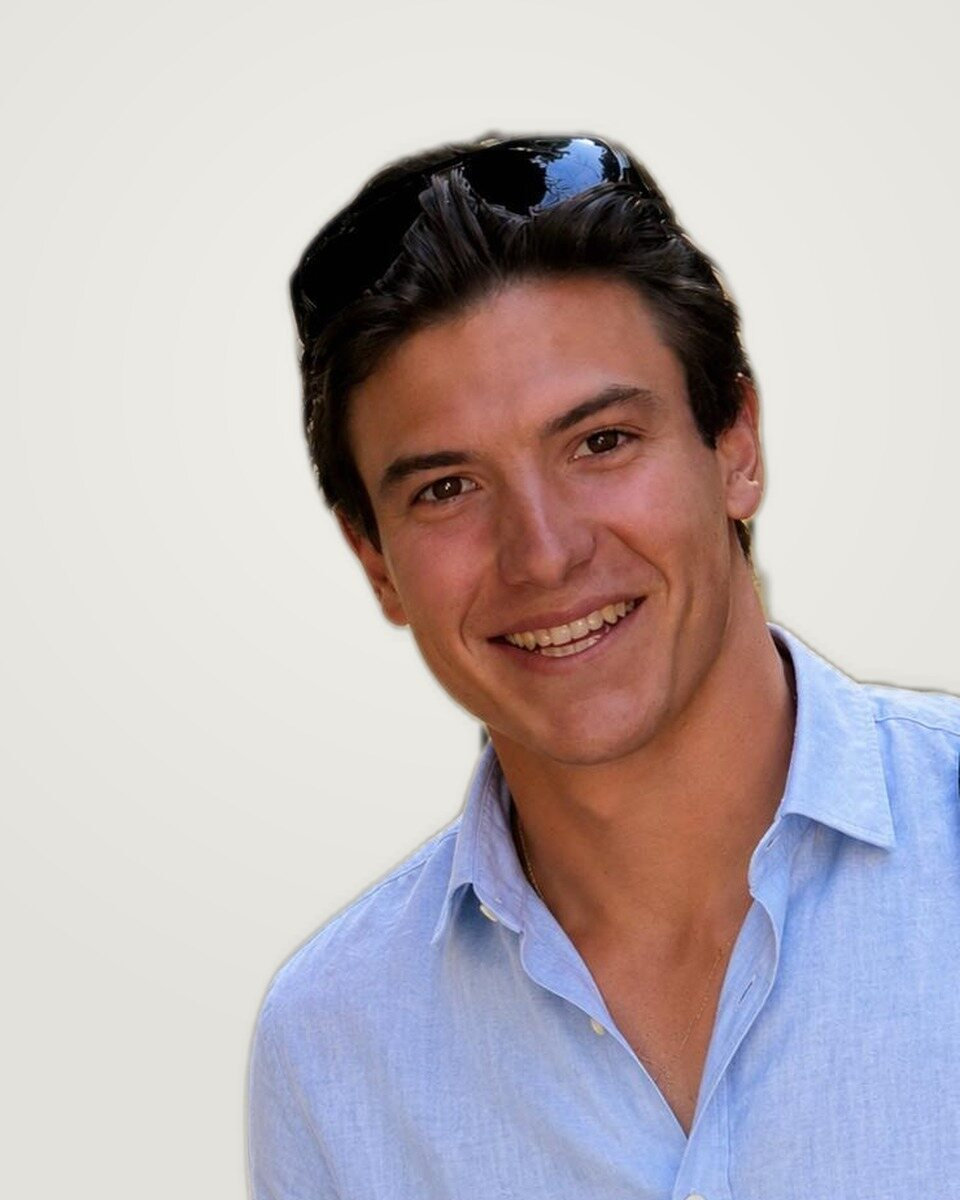
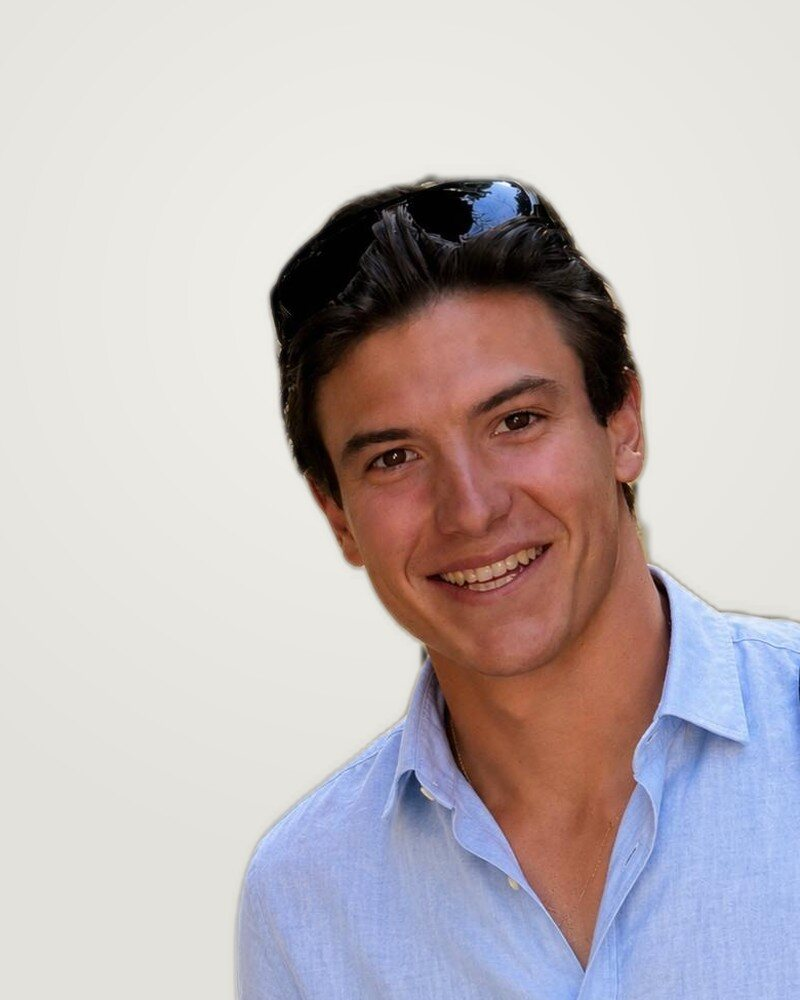
Pages plus courtes : onglets sur les offres, volets sur les engagements, accueil compact avec portrait, bande de démos, bandeau d'appel court, crédits repliés ; portrait plus petit et plus haut ; plus aucune mention de la joaillerie ; comparaison désactivable
Claude-Session: https://claude.ai/code/session_01KmWuHobznHmM7V82BQaya5

Changed region(s): [[0.25, 0.093, 1.0, 1.0], [0.3438, 0.93, 0.4062, 1.0], [0.6875, 0.775, 0.7188, 0.806]]

diff --git a/public/assets/rendu.js b/public/assets/rendu.js
@@ -70,7 +70,7 @@ export function donnees(C) {
   const CP = C.comparaison && typeof C.comparaison === 'object' && !Array.isArray(C.comparaison) ? C.comparaison : null;
   const lignesCp = CP && Array.isArray(CP.lignes) ? CP.lignes.filter((l) => l && l.critere && l.a && l.b) : [];
   const colsCp = CP && Array.isArray(CP.colonnes) && CP.colonnes.length === 2 && CP.colonnes.every((c) => typeof c === 'string' && c.trim()) ? CP.colonnes : null;
-  const comparaison = CP && lignesCp.length && colsCp ? { sur: CP.sur || '', titre: CP.titre || '', intro: CP.intro || '', note: CP.note || '', colonnes: colsCp, lignes: lignesCp } : null;
+  const comparaison = CP && lignesCp.length && colsCp ? { actif: CP.actif === true, sur: CP.sur || '', titre: CP.titre || '', intro: CP.intro || '', note: CP.note || '', colonnes: colsCp, lignes: lignesCp } : null;
   return { secteurs, secteursUtiles, realisations, metiers, etapes, equipe, references, chiffres, lots, secteur, abonnements, engagements, pages, comparaison };
 }
 
@@ -136,8 +136,18 @@ const prixHtml = (p) => { const [v, ...r] = String(p == null ? '' : p).split('|'
 const telHref = (t) => 'tel:' + String(t || '').replace(/[^\d+]/g, '').replace(/^0/, '+33');
 
 /* Barre d'appel au contact, réutilisée en bas de plusieurs pages */
-function appel(C) {
+function appel(C, court) {
   const A = C.accueil || {}, G = C.agence || {};
+  if (court && (C.theme || {}).gabarit === 'edition') return `
+  <section class="appel appel-court">
+    <div class="wrap appel-in">
+      <h2>${esc(A.appel_titre || libelle(C, 'appel_titre'))}</h2>
+      <div class="actions">
+        <a class="btn btn-or" href="/contact">${esc(libelle(C, 'bouton_appel'))}</a>
+        ${G.telephone ? `<a class="btn btn-ligne-clair" href="${telHref(G.telephone)}">${ico.tel}<span>${esc(G.telephone)}</span></a>` : ''}
+      </div>
+    </div>
+  </section>`;
   return `
   <section class="appel">
     ${img(A.photo_appel, 2000, 'appel-img', false, '')}
@@ -236,7 +246,7 @@ ${page.corps}
       <a href="/confidentialite">Confidentialité</a>
       ${o.lienAdmin ? `<a href="${o.lienAdmin}">Page de modification</a>` : ''}
       <span>© ${new Date().getFullYear()} ${esc(nom)}</span>
-      ${C.credits_photos ? `<span class="credits">${esc(C.credits_photos)}</span>` : ''}
+      ${C.credits_photos ? ((C.theme || {}).gabarit === 'edition' ? `<details class="credits"><summary>Crédits des photos</summary><p>${esc(C.credits_photos)}</p></details>` : `<span class="credits">${esc(C.credits_photos)}</span>`) : ''}
     </div>
   </div>
 </footer>
@@ -281,7 +291,7 @@ const abonnementsHtml = (D) => {
 };
 const comparaisonHtml = (C, D) => {
   const K = D.comparaison;
-  if (!K) return '';
+  if (!K || K.actif !== true) return '';
   const [c1, c2] = K.colonnes;
   return `
   <section class="sec" id="comparaison" aria-labelledby="t-cmp">
@@ -421,18 +431,32 @@ const offreVolet = (C, m, i, ouvert) => `
         </div>
       </details>`;
 
-function pageExpertises(C, D) {
-  const edition = (C.theme || {}).gabarit === 'edition';
-  return {
-    classe: 'p-expertises', titre: libelle(C, 'nav_expertises'), rubrique: '/expertises', image: (D.metiers[0] || {}).photo,
-    description: libelle(C, 'page_exp_description') || `Space planning, maîtrise d'œuvre et contractant général : les métiers de ${(C.agence || {}).nom || 'l’agence'}.`,
-    corps: `
-  <section class="tete-page wrap">
-    <p class="sur">${esc(libelle(C, 'exp_sur'))}</p>
-    <h1>${esc(libelle(C, 'page_exp_titre'))}</h1>
-    <p class="chapo">${esc((C.agence || {}).activite || '')}${(C.agence || {}).zone ? ', ' + esc(C.agence.zone) : ''}.</p>
-  </section>
-  ${edition ? `<section class="sec sec-serre offres" aria-label="${esc(libelle(C, 'page_exp_titre'))}"><div class="wrap">${D.metiers.map((m, i) => offreVolet(C, m, i, false)).join('')}</div></section>` : D.metiers.map((m, i) => `
+/* Page des offres, gabarit « édition » : quatre onglets (les sites, les abonnements, comment ça marche, ce qui est inclus) ; sans JavaScript, tout reste affiché */
+function onglets(C, D) {
+  const etapes = D.etapes.length ? `
+      <section class="sec sec-serre" aria-labelledby="t-met"><div class="wrap">
+        <div class="sec-tete">${titreSection(libelle(C, 'methode_sur'), libelle(C, 'methode_titre_page'), 't-met')}</div>
+        ${etapesHtml(D)}
+      </div></section>` : '';
+  const lots = D.lots.length ? `
+      <section class="sec sec-serre" aria-labelledby="t-lots"><div class="wrap">
+        <div class="sec-tete">${titreSection(libelle(C, 'lots_sur'), libelle(C, 'lots_titre'), 't-lots')}</div>
+        <ul class="lots">${D.lots.map((l) => `<li>${esc(l)}</li>`).join('')}</ul>
+      </div></section>` : '';
+  const cmp = comparaisonHtml(C, D);
+  const abo = abonnementsHtml(D);
+  const pans = [
+    ['sites', 'Les sites', `<section class="sec sec-serre offres" aria-label="${esc(libelle(C, 'page_exp_titre'))}"><div class="wrap">${D.metiers.map((m, i) => offreVolet(C, m, i, false)).join('')}</div></section>${pagesListeHtml(C, D)}`],
+    ...(abo ? [['abonnements', 'Abonnements', abo]] : []),
+    ...(etapes ? [['etapes', 'Comment ça marche', etapes]] : []),
+    ...(lots ? [['inclus', 'Inclus dans chaque site', lots]] : []),
+    ...(cmp ? [['comparaison', 'Comparer', cmp]] : []),
+  ];
+  return `<div class="onglets-barre" role="tablist" aria-label="Rubriques de la page" hidden><div class="wrap">${pans.map(([id, nom], i) => `<button type="button" role="tab" class="onglet" id="o-${id}" aria-controls="p-${id}" aria-selected="${i === 0}" tabindex="${i === 0 ? 0 : -1}">${esc(nom)}</button>`).join('')}</div></div>
+  ${pans.map(([id, , html]) => `<div class="onglet-panneau" role="tabpanel" id="p-${id}" aria-labelledby="o-${id}">${html}</div>`).join('\n  ')}`;
+}
+const classique = (C, D) => `
+  ${D.metiers.map((m, i) => `
   <section class="sec metier${i % 2 ? ' inverse' : ''}" id="${esc(m.id)}">
     <div class="wrap metier-grille">
       ${src(m.photo, 1400) ? `<figure class="metier-fig">${img(m.photo, 1400, 'metier-img', i === 0, '')}</figure>` : ''}
@@ -463,8 +487,21 @@ function pageExpertises(C, D) {
       <div class="sec-tete">${titreSection(libelle(C, 'lots_sur'), libelle(C, 'lots_titre'), 't-lots')}</div>
       <ul class="lots">${D.lots.map((l) => `<li>${esc(l)}</li>`).join('')}</ul>
     </div>
-  </section>` : ''}
-  ${appel(C)}`,
+  </section>` : ''}`;
+
+function pageExpertises(C, D) {
+  const edition = (C.theme || {}).gabarit === 'edition';
+  return {
+    classe: 'p-expertises', titre: libelle(C, 'nav_expertises'), rubrique: '/expertises', image: (D.metiers[0] || {}).photo,
+    description: libelle(C, 'page_exp_description') || `Space planning, maîtrise d'œuvre et contractant général : les métiers de ${(C.agence || {}).nom || 'l’agence'}.`,
+    corps: `
+  <section class="tete-page wrap">
+    <p class="sur">${esc(libelle(C, 'exp_sur'))}</p>
+    <h1>${esc(libelle(C, 'page_exp_titre'))}</h1>
+    <p class="chapo">${esc((C.agence || {}).activite || '')}${(C.agence || {}).zone ? ', ' + esc(C.agence.zone) : ''}.</p>
+  </section>
+  ${edition ? onglets(C, D) : classique(C, D)}
+  ${appel(C, true)}`,
   };
 }
 
@@ -498,7 +535,7 @@ function pageMetier(C, D, id) {
       <div class="faq">${x.questions.map((q) => `<details><summary>${esc(q.q)}</summary><p>${esc(q.r)}</p></details>`).join('')}</div>
     </div>
   </section>` : ''}
-  ${appel(C)}`,
+  ${appel(C, true)}`,
   };
 }
 
@@ -518,7 +555,7 @@ function pageRealisations(C, D, secteurId) {
       ${liste.length ? `<ul class="cartes">${liste.map((x) => carte(D, x, false)).join('\n        ')}</ul>` : '<p class="vide">Aucune réalisation en ligne pour le moment.</p>'}
     </div>
   </section>
-  ${appel(C)}`,
+  ${appel(C, true)}`,
   };
 }
 
@@ -559,7 +596,7 @@ function pageRealisation(C, D, id) {
     <a href="/realisations/${esc(prec.id)}">${ico.gauche}<span><small>Précédente</small>${esc(prec.nom)}</span></a>
     <a href="/realisations/${esc(suiv.id)}"><span><small>Suivante</small>${esc(suiv.nom)}</span>${ico.fleche}</a>
   </nav>` : ''}
-  ${appel(C)}`,
+  ${appel(C, true)}`,
   };
 }
 
@@ -576,7 +613,7 @@ function pageAgence(C, D) {
   <section class="sec sec-serre">
     <div class="wrap intro-grille">
       <div class="prose prose-grande">${texteRiche(P.texte)}</div>
-      ${src(P.photo, 1200) ? `<figure class="intro-fig">${img(P.photo, 1200, 'intro-img', true, '')}</figure>` : ''}
+      ${src(P.photo, 1200) ? `<figure class="intro-fig">${img(P.photo, 1200, 'intro-img', true, '')}${((C.equipe || [])[0] || {}).nom ? `<figcaption><b>${esc(C.equipe[0].nom)}</b>${C.equipe[0].role ? `<span>${esc(C.equipe[0].role)}</span>` : ''}</figcaption>` : ''}</figure>` : ''}
     </div>
   </section>
   ${src(P.photo_2, 1600) ? `<section class="sec sec-serre agence-bande"><div class="wrap"><figure>${img(P.photo_2, 1600, 'bande-img', false, '')}</figure></div></section>` : ''}
@@ -601,7 +638,7 @@ function pageAgence(C, D) {
       ${referencesHtml(D)}
     </div>
   </section>` : ''}
-  ${appel(C)}`,
+  ${appel(C, true)}`,
   };
 }
 
@@ -662,15 +699,15 @@ function pageEngagements(C, D) {
     <h1>${esc(libelle(C, 'page_eng_titre'))}</h1>
     ${chapo ? `<p class="chapo">${esc(chapo)}</p>` : ''}
   </section>
-  <section class="sec sec-serre">
+  ${(C.theme || {}).gabarit === 'edition' ? `<section class="sec sec-serre"><div class="wrap eng-vols">${D.engagements.map((b) => `<details class="offre eng-vol" id="${esc(b.id)}"><summary><span class="offre-tete"><h2>${esc(b.titre)}</h2></span></summary><div class="offre-corps eng-corps"><div class="metier-txt">${b.texte ? `<div class="prose">${texteRiche(b.texte)}</div>` : ''}${listeCoches(b.points)}</div></div></details>`).join('')}</div></section>` : `<section class="sec sec-serre">
     <div class="wrap eng-grille">
       <nav class="eng-index" aria-label="${esc(libelle(C, 'eng_index'))}"><p class="sur">${esc(libelle(C, 'eng_index'))}</p><ol>${D.engagements.map((b) => `<li><a href="#${esc(b.id)}">${esc(b.titre)}</a></li>`).join('')}</ol></nav>
       <div class="eng-blocs">
         ${D.engagements.map((b, i) => `<section class="eng-bloc" id="${esc(b.id)}" aria-labelledby="t-${esc(b.id)}"><span class="eng-num" aria-hidden="true">${num(i)}</span><h2 id="t-${esc(b.id)}">${esc(b.titre)}</h2>${b.texte ? `<div class="prose">${texteRiche(b.texte)}</div>` : ''}${listeCoches(b.points)}</section>`).join('\n        ')}
       </div>
     </div>
-  </section>
-  ${appel(C)}`,
+  </section>`}
+  ${appel(C, true)}`,
   };
 }
 

diff --git a/public/assets/site.css b/public/assets/site.css
@@ -957,3 +957,102 @@ select.saisie{background-image:linear-gradient(45deg,transparent 50%,var(--gris)
 .g-edition .agence-bande img{width:100%;aspect-ratio:21/9;object-fit:cover;object-position:50% 60%;border:var(--fil)}
 .g-edition .agence-bande{padding-top:0}
 .g-edition .agence-bande figure{margin:0}
+
+/* ====== Révision 4 : pages plus courtes (onglets, volets, bandes), portrait petit et haut ====== */
+/* Onglets de la page des offres */
+.g-edition .onglets-barre{background:var(--fond);border-bottom:var(--fil);position:sticky;top:72px;z-index:20}
+.g-edition .onglets-barre .wrap{display:flex;gap:clamp(18px,3vw,36px);overflow-x:auto;scrollbar-width:none}
+.g-edition .onglets-barre .wrap::-webkit-scrollbar{display:none}
+.g-edition .onglet{flex:none;background:none;border:0;border-bottom:3px solid transparent;margin-bottom:-1px;padding:16px 0 13px;font:600 1rem/1.2 var(--texte);color:var(--gris);cursor:pointer;white-space:nowrap}
+.g-edition .onglet:hover{color:var(--encre)}
+.g-edition .onglet[aria-selected="true"]{color:var(--encre);border-bottom-color:var(--bleu)}
+.g-edition .onglet-panneau[hidden]{display:none}
+.g-edition .onglet-panneau > .sec:first-child{padding-top:clamp(28px,4vw,48px)}
+/* Engagements : volets fermés */
+.g-edition .eng-vols{max-width:920px}
+.g-edition .eng-vol summary{grid-template-columns:minmax(0,1fr) 1.75rem;grid-template-areas:"tete plus";padding:24px 0}
+.g-edition .eng-vol .offre-tete h2{font-size:clamp(1.375rem,2.4vw,1.875rem)}
+.g-edition .eng-corps{grid-template-columns:minmax(0,1fr);padding:0 2rem 32px 0}
+@media (min-width:900px){.g-edition .eng-vol summary{grid-template-columns:minmax(0,1fr) 2rem;grid-template-areas:"tete plus";padding:28px 0}.g-edition .eng-corps{grid-template-columns:minmax(0,1fr);padding:0 2rem 36px 0}}
+/* Bandeau d'appel court des pages intérieures */
+.g-edition .appel-court .appel-in{display:flex;flex-wrap:wrap;align-items:center;justify-content:space-between;gap:16px 32px;padding-top:clamp(24px,3.5vw,36px);padding-bottom:clamp(24px,3.5vw,36px)}
+.g-edition .appel-court h2{font-size:clamp(1.375rem,2.6vw,1.875rem);max-width:none;line-height:1.1;margin:0}
+.g-edition .appel-court .actions{margin:0}
+/* Pied de page : crédits repliés */
+.g-edition .credits{flex-basis:100%}
+.g-edition .credits summary{cursor:pointer;font-size:.8125rem;color:rgba(255,255,255,.72);width:max-content}
+.g-edition .credits p{margin-top:8px;font-size:.8125rem;line-height:1.6;color:rgba(255,255,255,.72)}
+/* Accueil : premier écran compact avec le portrait */
+.g-edition .hero{padding-top:clamp(28px,4.5vw,56px);padding-bottom:clamp(24px,3vw,40px)}
+.g-edition .hero h1{font-size:clamp(2.5rem,5.6vw,4.75rem)}
+.g-edition .hero-media{width:min(100%,300px);justify-self:start;aspect-ratio:4/5;max-height:none;grid-column:1;object-position:50% 30%}
+@media (max-width:899px){
+  .g-edition .hero{grid-template-columns:minmax(0,1fr) 112px;gap:18px 18px;align-items:end}
+  .g-edition .hero h1,.g-edition .hero-chapo,.g-edition .hero .actions{grid-column:1 / -1}
+  .g-edition .hero-gar{grid-column:1;grid-template-columns:1fr;margin:0;border-top:0}
+  .g-edition .hero-gar li{padding:10px 0;border-bottom:var(--fil);border-top:0}
+  .g-edition .hero-gar li:first-child{border-top:var(--filfort)}
+  .g-edition .hero-gar b{font-size:clamp(1.75rem,8vw,2.25rem)}
+  .g-edition .hero-media{grid-column:2;width:112px;justify-self:end;align-self:start;order:7}
+  .g-edition .hero-gar{order:6}
+}
+@media (min-width:900px){
+  .g-edition .hero{grid-template-columns:minmax(0,7fr) minmax(0,5fr);grid-template-rows:auto auto auto auto}
+  .g-edition .hero-media{grid-column:2;grid-row:1 / span 4;justify-self:end;width:min(100%,300px);align-self:center}
+  .g-edition .hero-gar{grid-column:1;grid-row:4;grid-template-columns:repeat(2,minmax(0,1fr));margin-top:6px;border-top:var(--filfort)}
+  .g-edition .hero-gar li{padding:18px 24px 18px 0;border-bottom:0}
+  .g-edition .hero-gar li + li{padding-left:24px;border-left:var(--fil)}
+  .g-edition .hero-gar b{font-size:clamp(2.25rem,3.6vw,3.25rem)}
+}
+.g-edition .hero + .sec{padding-top:clamp(32px,4vw,56px)}
+/* Accueil : « Je m'en occupe » plus court, photo plus petite */
+.g-edition .intro-img{height:clamp(190px,24vw,320px)}
+.g-edition .intro-txt h2{font-size:clamp(1.75rem,3.2vw,2.5rem)}
+.g-edition .sec{padding:clamp(40px,5.5vw,76px) 0}
+.g-edition .sec-tete{margin-bottom:clamp(20px,3vw,36px)}
+/* Accueil : les quatre offres en lignes serrées, sans texte sur téléphone */
+@media (max-width:759px){
+  .g-edition .metiers a{padding:16px 0}
+  .g-edition .metiers p:not(.metier-prix){display:none}
+  .g-edition .metiers h3{font-size:1.5rem}
+}
+/* Accueil : démonstrations en une ligne de quatre (bande qui défile sur téléphone) */
+.g-edition .essai-grille{grid-template-columns:minmax(0,1fr);gap:24px}
+.g-edition .essai-txt .prose{max-width:62ch}
+.g-edition .essai-liens{display:flex;gap:16px;overflow-x:auto;scroll-snap-type:x mandatory;padding-bottom:8px;margin-right:calc(var(--gut) * -1);padding-right:var(--gut);scrollbar-width:thin}
+.g-edition .essai-liens li{flex:0 0 min(72%,280px);scroll-snap-align:start}
+.g-edition .essai-liens small{display:none}
+.g-edition .essai-vue{aspect-ratio:1/1}
+@media (min-width:760px){.g-edition .essai-liens{display:grid;grid-template-columns:repeat(4,minmax(0,1fr));gap:24px;overflow:visible;margin-right:0;padding-right:0}.g-edition .essai-liens li{flex:none}}
+@media (min-width:1000px){.g-edition .essai-grille{grid-template-columns:minmax(0,1fr)}.g-edition .essai-liens{grid-template-columns:repeat(4,minmax(0,1fr));gap:28px}}
+/* Trois étapes : une ligne chacune */
+.g-edition .etapes{gap:clamp(20px,2.4vw,36px)}
+.g-edition .etapes ul li{border-bottom:0;padding:6px 0;font-size:1rem}
+.g-edition .etape-num{display:none}
+/* Appel de l'accueil : moins haut */
+.g-edition .appel-in{padding-top:clamp(40px,6vw,76px);padding-bottom:clamp(40px,6vw,76px)}
+/* À propos : portrait petit, tout en haut, à côté du texte */
+.g-edition.p-agence .tete-page{padding-bottom:0}
+.g-edition.p-agence .tete-page h1{font-size:clamp(2.25rem,4.4vw,3.5rem);margin-bottom:8px}
+@media (min-width:760px){
+  .g-edition.p-agence .intro-grille{grid-template-columns:minmax(0,1fr) 250px;gap:clamp(32px,5vw,72px);align-items:start}
+}
+.g-edition.p-agence .intro-fig{max-width:250px;justify-self:start;order:-1}
+@media (min-width:760px){.g-edition.p-agence .intro-fig{justify-self:end;order:0}}
+.g-edition.p-agence .intro-img{height:auto;aspect-ratio:4/5;object-position:50% 30%}
+.g-edition .intro-fig figcaption{margin-top:12px;display:grid;gap:2px}
+.g-edition .intro-fig figcaption b{font:500 1.1875rem/1.2 var(--titres)}
+.g-edition .intro-fig figcaption span{color:var(--gris);font-size:.9375rem}
+.g-edition.p-agence .prose-grande p:first-child{font-size:clamp(1.25rem,2vw,1.625rem)}
+.g-edition .agence-bande img{aspect-ratio:16/5;object-position:50% 62%}
+@media (max-width:759px){.g-edition .agence-bande img{aspect-ratio:16/8}}
+/* Mobile : portrait de « À propos » plus petit, pied de page en deux colonnes */
+@media (max-width:759px){
+  .g-edition.p-agence .intro-fig{max-width:150px}
+  .g-edition .pied{padding:36px 0 24px}
+  .g-edition .pied-cols{display:grid;grid-template-columns:1fr 1fr;gap:22px 16px}
+  .g-edition .pied-haut{margin-bottom:18px}
+  .g-edition .pied-marque{font-size:1.5rem}
+}
+@media (min-width:900px){.g-edition .hero{padding-bottom:clamp(8px,1.5vw,20px)}.g-edition .hero + .sec{padding-top:clamp(20px,2.5vw,36px)}}
+@media (min-width:1000px){.g-edition.p-realisations .cartes{grid-template-columns:repeat(4,minmax(0,1fr));gap:28px}}

diff --git a/public/assets/site.js b/public/assets/site.js
@@ -20,6 +20,36 @@
     });
   })();
 
+  /* Onglets (page des offres) : sans JavaScript tout reste affiché ; avec, un seul panneau à la fois. L'adresse « #identifiant » ouvre le bon onglet. */
+  var ONGLETS = (function () {
+    var barre = $('.onglets-barre'); if (!barre) return null;
+    var tabs = $$('[role="tab"]', barre), pans = tabs.map(function (t) { return document.getElementById(t.getAttribute('aria-controls')); });
+    barre.hidden = false;
+    var activer = function (i, focus) {
+      tabs.forEach(function (t, j) { var on = j === i; t.setAttribute('aria-selected', String(on)); t.tabIndex = on ? 0 : -1; if (pans[j]) pans[j].hidden = !on; });
+      if (focus) tabs[i].focus();
+    };
+    tabs.forEach(function (t, i) {
+      t.addEventListener('click', function () { activer(i); try { history.replaceState(null, '', '#' + pans[i].id.replace(/^p-/, '')); } catch (e) { /* rien */ } });
+      t.addEventListener('keydown', function (e) {
+        var k = e.key, n = tabs.length;
+        if (k === 'ArrowRight') { e.preventDefault(); activer((i + 1) % n, true); } else if (k === 'ArrowLeft') { e.preventDefault(); activer((i + n - 1) % n, true); }
+        else if (k === 'Home') { e.preventDefault(); activer(0, true); } else if (k === 'End') { e.preventDefault(); activer(n - 1, true); }
+      });
+    });
+    var surHash = function () {
+      var h = decodeURIComponent((location.hash || '').slice(1)); if (!h) return;
+      var cible = document.getElementById(h); if (!cible) return;
+      var pan = cible.closest('[role="tabpanel"]');
+      var i = pan ? pans.indexOf(pan) : pans.map(function (p) { return p && p.id.replace(/^p-/, ''); }).indexOf(h);
+      if (i > -1) activer(i);
+      if (cible.tagName === 'DETAILS') cible.open = true;
+      if (pan) setTimeout(function () { cible.scrollIntoView(); }, 0);
+    };
+    activer(0); surHash(); window.addEventListener('hashchange', surHash);
+    return { activer: activer };
+  })();
+
   /* Volets des offres : l'adresse « #identifiant » ouvre le bon volet */
   (function () {
     var ouvrir = function () { var h = decodeURIComponent((location.hash || '').slice(1)); var d = h && document.getElementById(h); if (d && d.tagName === 'DETAILS') d.open = true; };

diff --git a/public/assets/admin.js b/public/assets/admin.js
@@ -678,7 +678,7 @@ function panneaux() {
       id: 'comparaison', titre: 'Comparaison avec un constructeur en ligne', page: '/expertises', seulementSi: () => !!(E.C.comparaison && typeof E.C.comparaison === 'object'),
       resume: () => (((E.C.comparaison || {}).lignes || []).length + ' lignes'),
       corps: () => [
-        groupe('Présentation', 'Le tableau s’affiche sur la page des offres', [champ(E.C, { k: 'comparaison.titre', l: 'Titre' }), champ(E.C, { k: 'comparaison.intro', l: 'Texte', t: 'zone', lignes: 4 }), champ(E.C, { k: 'comparaison.note', l: 'Petite note sous le tableau', t: 'zone', lignes: 3 })], '/expertises'),
+        groupe('Présentation', 'Le tableau s’affiche sur la page des offres, dans l’onglet « Comparer »', [champ(E.C, { k: 'comparaison.actif', l: 'Afficher la comparaison sur le site', t: 'case' }), champ(E.C, { k: 'comparaison.titre', l: 'Titre' }), champ(E.C, { k: 'comparaison.intro', l: 'Texte', t: 'zone', lignes: 4 }), champ(E.C, { k: 'comparaison.note', l: 'Petite note sous le tableau', t: 'zone', lignes: 3 })], '/expertises'),
         groupe('Lignes', 'Critère, colonne A, colonne B', [
           editeurListe('comparaison.lignes', { titre: 'critere', sansTitre: 'Nouvelle ligne', vide: 'Aucune ligne.', ajouter: 'Ajouter une ligne', nouveau: { critere: '', a: '', b: '' }, champs: [{ k: 'critere', l: 'Critère' }, { k: 'a', l: 'Constructeur en ligne', t: 'zone', lignes: 3 }, { k: 'b', l: 'Mon offre', t: 'zone', lignes: 3 }] }),
         ], '/expertises'),
